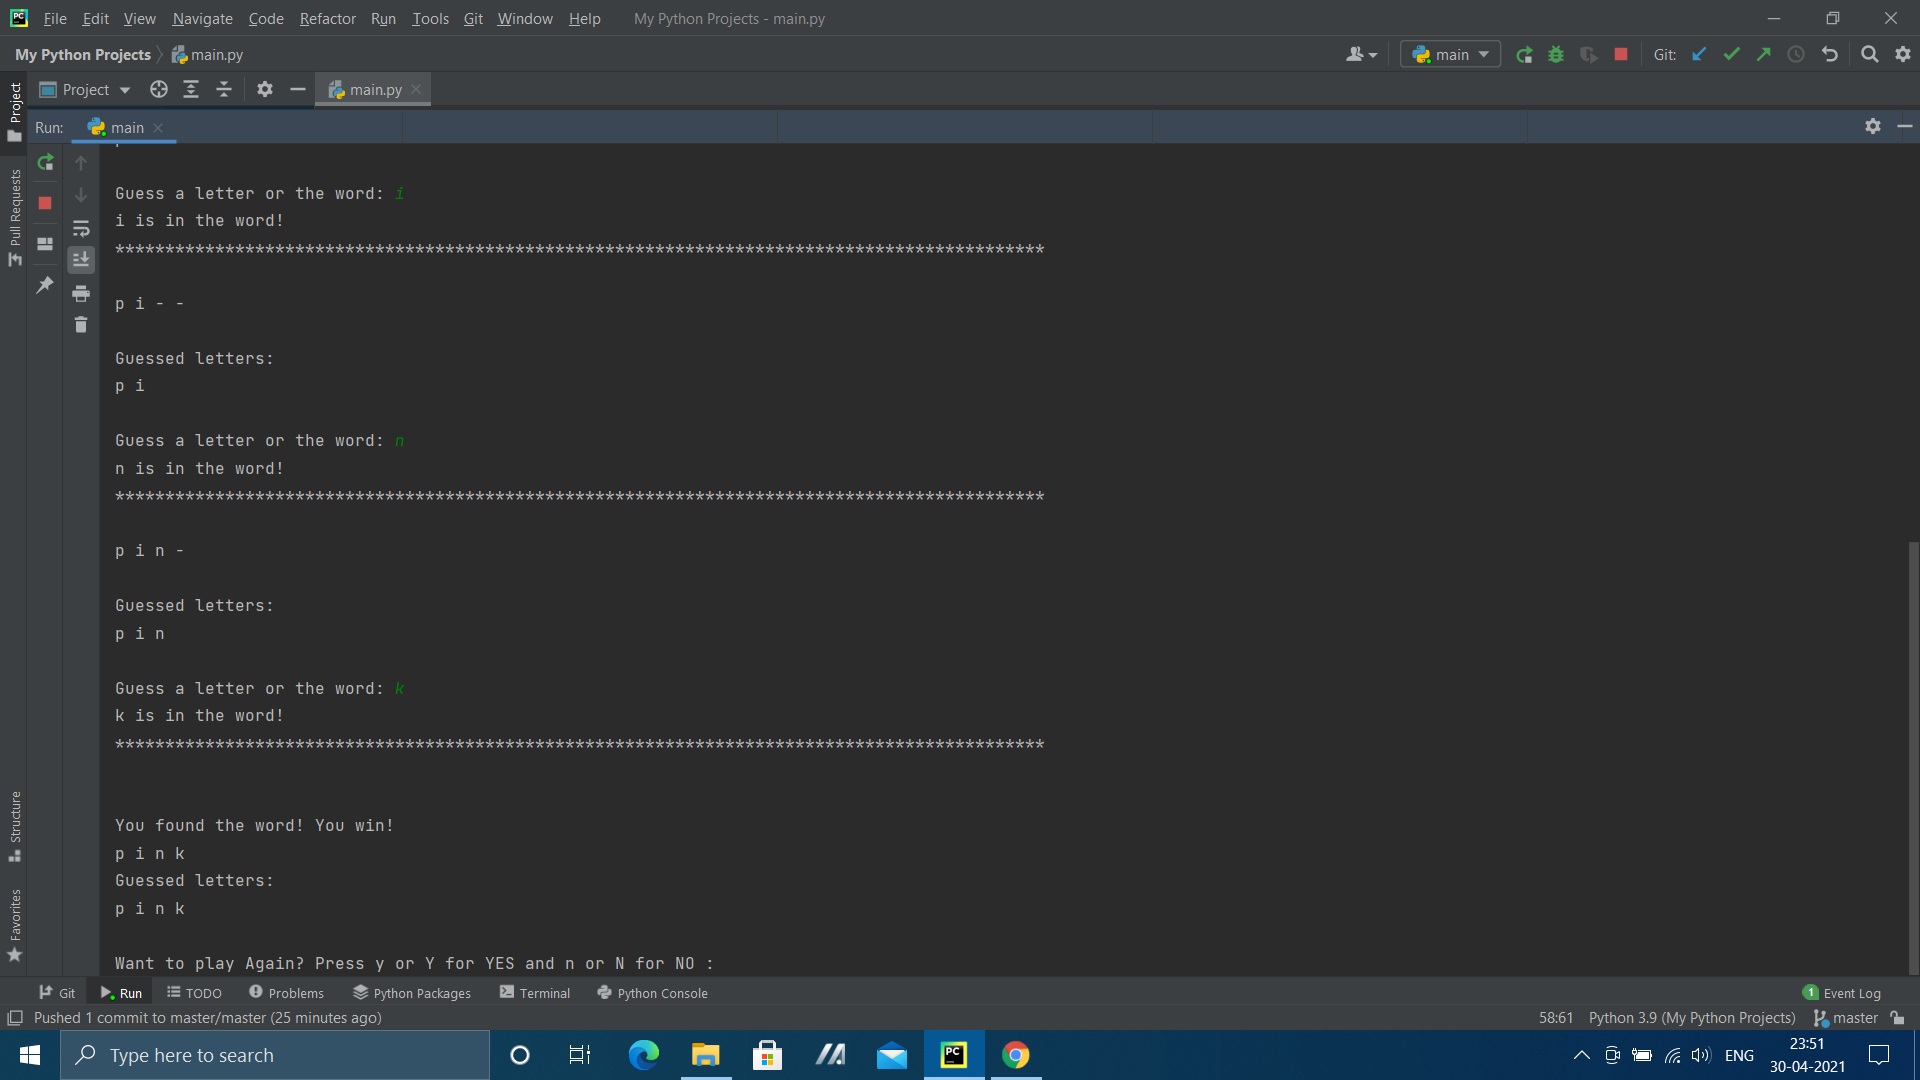
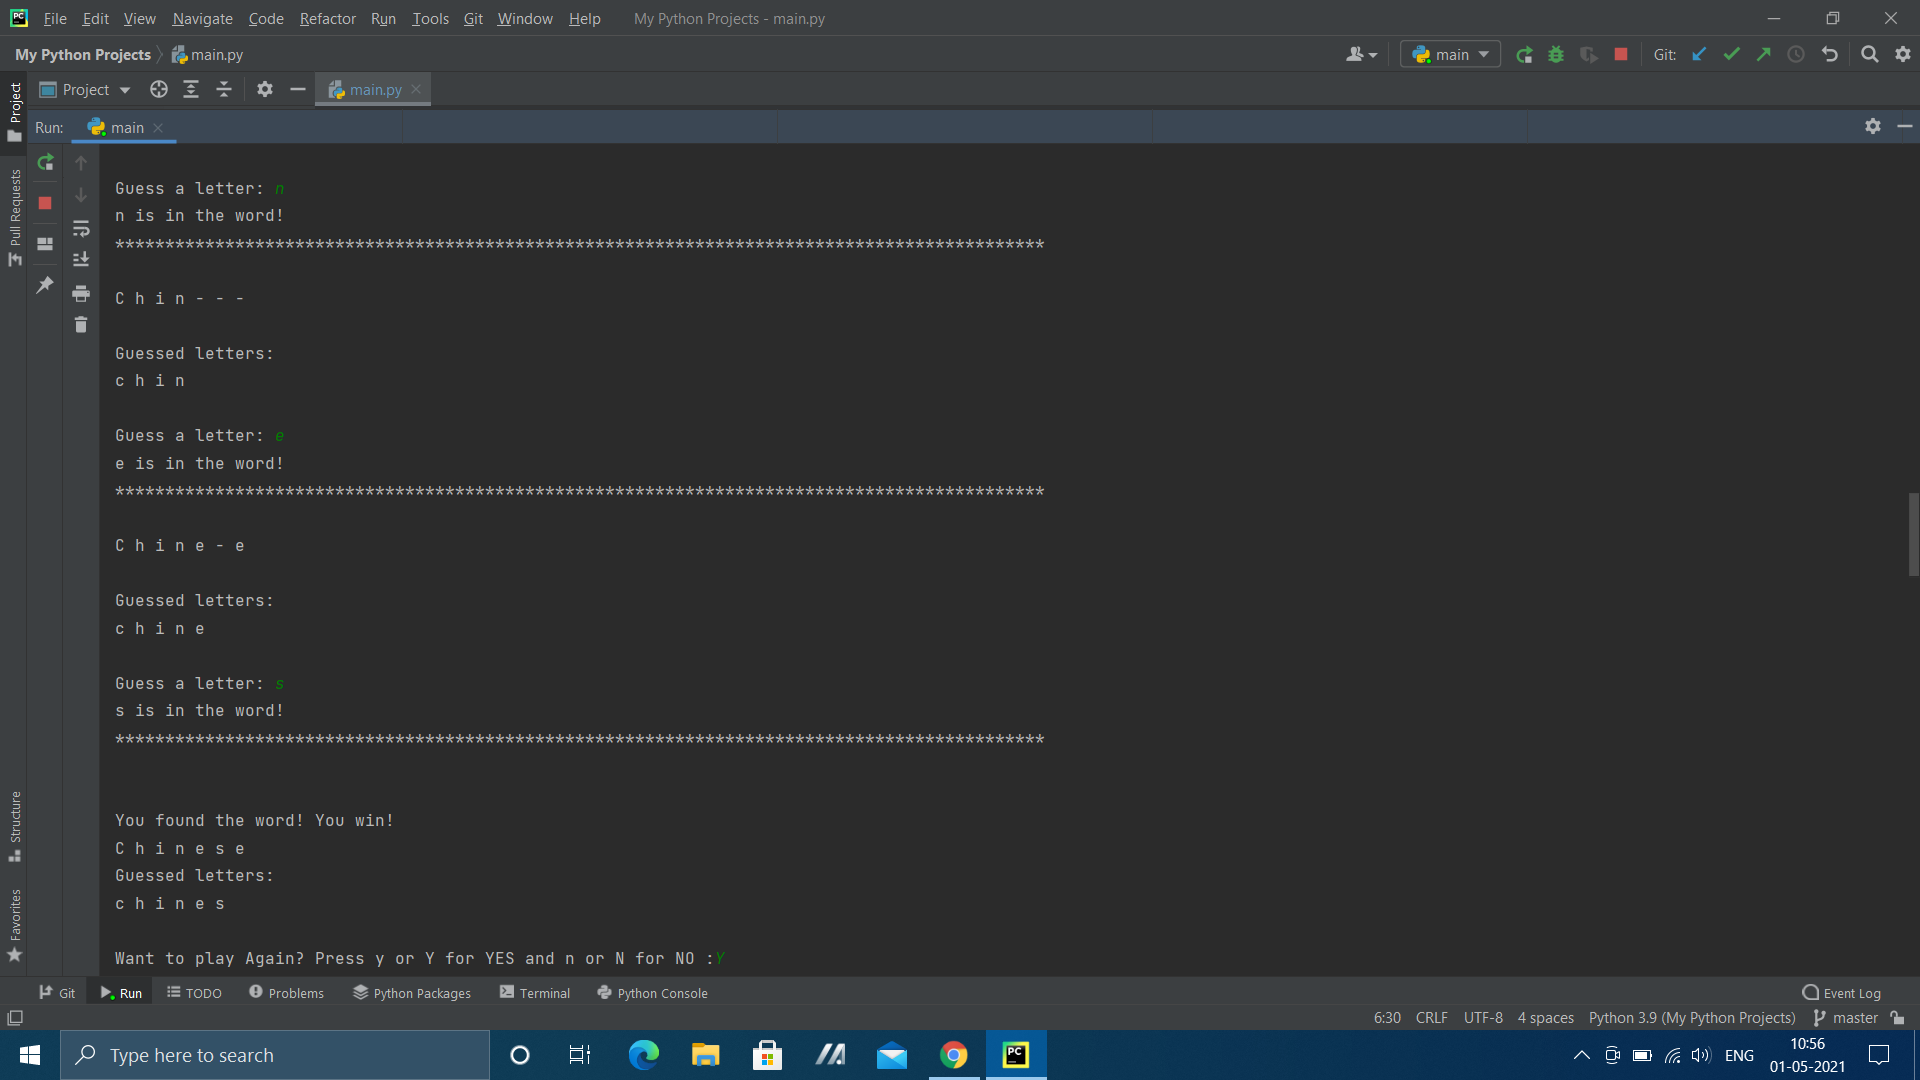
Successfully Completed

diff --git a/main.py b/main.py
@@ -163,7 +163,7 @@ def hangman():
         # Here user is asked to enter for alphabetical guess, which will be forced  to lowercase
         guess = "0"
         if not guess.isalpha():
-            guess = input("Guess a letter or the word: ").lower()
+            guess = input("Guess a letter: ").lower()
 
         if guess == word.lower():
             # Completely guessed the right word (Its time for reward)
